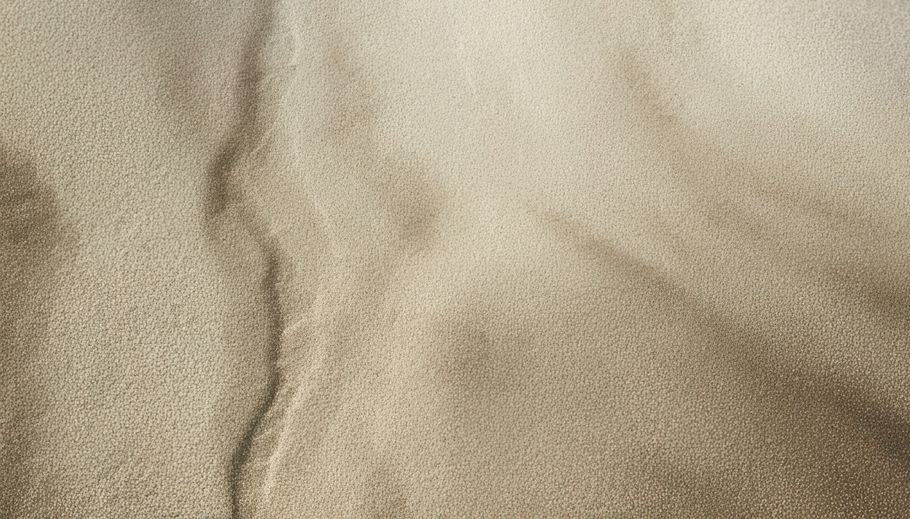
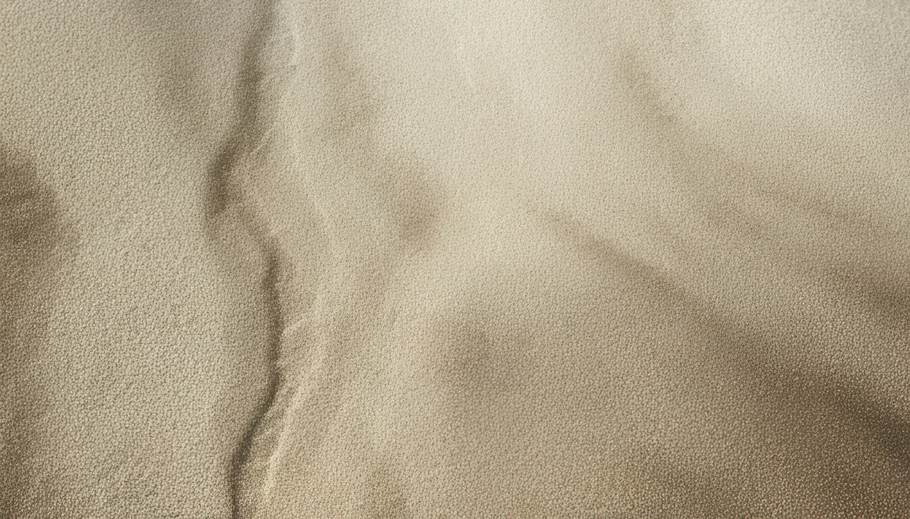
Smooth out page load
Wait for the fonts before fading the page in, load them as two variable
files, preload the hero photo, give photo areas a matching base color,
and fade the team photos in once loaded.

diff --git a/index.html b/index.html
@@ -7,8 +7,19 @@
   <meta name="description" content="Violet keeps track of your ad specs, standards, and requirements wherever you create.">
   <link rel="preconnect" href="https://fonts.googleapis.com">
   <link rel="preconnect" href="https://fonts.gstatic.com" crossorigin>
-  <link href="https://fonts.googleapis.com/css2?family=EB+Garamond:wght@500;600;700;800&family=Inconsolata:wght@400;500;700;800&display=swap" rel="stylesheet">
+  <link href="https://fonts.googleapis.com/css2?family=EB+Garamond:wght@500..800&family=Inconsolata:wght@400..800&display=swap" rel="stylesheet">
+  <link rel="preload" href="assets/img/hero-top.jpg" as="image" fetchpriority="high">
   <link rel="stylesheet" href="assets/styles.css">
+  <script>
+    // Hold the page hidden until the fonts are in, so text doesn't redraw and
+    // jump as they swap. Capped so a slow font server never hides the page long.
+    document.documentElement.classList.add("is-loading");
+    const reveal = () => document.documentElement.classList.remove("is-loading");
+    Promise.all([
+      '500 1em "EB Garamond"', '600 1em "EB Garamond"', '400 1em Inconsolata', '700 1em Inconsolata'
+    ].map((font) => document.fonts.load(font))).then(reveal, reveal);
+    setTimeout(reveal, 1200);
+  </script>
 </head>
 <body>
   <header class="site-header">
@@ -138,6 +149,12 @@
   </main>
 
   <script>
+    // Fade each photo in once it has loaded instead of letting it pop in.
+    document.querySelectorAll(".team-grid img").forEach((img) => {
+      if (img.complete) return img.classList.add("is-loaded");
+      img.addEventListener("load", () => img.classList.add("is-loaded"));
+    });
+
     // A file dropped here can't be carried over to the app, so stop the
     // browser from opening it and send the visitor to the app's uploader.
     const zone = document.querySelector("[data-app-drop]");

diff --git a/assets/styles.css b/assets/styles.css
@@ -26,6 +26,15 @@ h1, h2, h3, p, ol, ul { margin: 0; }
 ol, ul { padding: 0; list-style: none; }
 a { color: inherit; text-decoration: none; }
 img { display: block; max-width: 100%; height: auto; }
+
+/* Smooth loading */
+body { transition: opacity .35s ease; }
+.is-loading body { opacity: 0; }
+.team-grid img { opacity: 0; transition: opacity .5s ease; }
+.team-grid img.is-loaded { opacity: 1; }
+@media (prefers-reduced-motion: reduce) {
+  body, .team-grid img { transition: none; }
+}
 section { scroll-margin-top: 88px; }
 
 .container { max-width: 1400px; margin: 0 auto; padding: 0 24px; }
@@ -84,7 +93,7 @@ h2 {
   justify-content: center;
   min-height: 944px;
   padding: 120px 24px;
-  background: url("img/hero-top.jpg") center / cover no-repeat;
+  background: #959f8a url("img/hero-top.jpg") center / cover no-repeat;
   color: var(--paper);
   text-align: center;
 }
@@ -216,7 +225,7 @@ h2 {
 /* Try it */
 .try {
   padding: 162px 0 194px;
-  background: url("img/hero-bottom.jpg") center / cover no-repeat;
+  background: #2d2c18 url("img/hero-bottom.jpg") center / cover no-repeat;
 }
 .try .split-text { align-self: center; color: var(--paper); }
 .try .split-text h2 { font-weight: 500; }
@@ -259,6 +268,9 @@ h2 {
   margin-top: 58px;
 }
 .team-grid img { width: 100%; aspect-ratio: 455 / 260; object-fit: cover; }
+.team-grid article:nth-child(1) img { background: #d2c5b7; }
+.team-grid article:nth-child(2) img { background: #b0a38b; }
+.team-grid article:nth-child(3) img { background: #2b2f27; }
 .team-grid h3 {
   margin-top: 43px;
   font-family: var(--serif);
